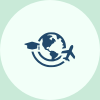
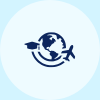
Edit 11 (Before Publishing)

diff --git a/index_complete.html b/index_complete.html
@@ -26,7 +26,7 @@
     <!-- WhatsApp Btn -->
 
     <a
-      href="https://wa.me/5541992188670?text=Hello!%20Tenho%20interesse%20nas%20aulas%20de%20ingl%C3%AAs%20da%20LinguaWiser...%20"
+      href="https://wa.me/5511999999999"
       class="whatsapp-button"
       target="_blank"
       aria-label="Chame no WhatsApp"
@@ -47,17 +47,27 @@
         <a href="#about">Sobre</a>
         <a href="#services">Serviços</a>
         <a href="#courses">Cursos</a>
-        
+        <a href="#intercambio">Intercâmbio</a>
+        <a href="#imersao">Imersão</a>
       </nav>
 
       <div class="icons">
-        
+        <div class="fas fa-user" id="account-btn"></div>
         <div class="fas fa-bars" id="menu-btn"></div>
       </div>
 
       <!-- Login Form -->
 
-      
+      <form action="" class="login-form">
+        <h3>Faça o seu login</h3>
+        <input type="email" placeholder="email" class="box" />
+        <input type="password" placeholder="senha" class="box" />
+        <div class="remember">
+          <input type="checkbox" name="" id="remember" />
+          <label for="remember-me">Esqueci a senha</label>
+        </div>
+        <a href="#" class="btn">Entrar</a>
+      </form>
     </header>
 
     <!-- Header ends here -->
@@ -74,7 +84,7 @@
           Google Meet, além de atividades presenciais, aulas in-company e cursos
           no exterior para uma experiência completa e personalizada.
         </p>
-        <a href="https://wa.me/5541992188670?text=Hello!%20Tenho%20interesse%20nas%20aulas%20de%20ingl%C3%AAs%20da%20LinguaWiser...%20" class="btn">Experimente grátis</a>
+        <a href="#" class="btn">Experimente grátis</a>
       </div>
     </section>
 
@@ -108,7 +118,7 @@
             seus alunos, a LinguaWiser acredita que aprender inglês deve ser
             uma experiência leve, prática e transformadora.
           </p>
-          <a href="https://wa.me/5541992188670?text=Hello!%20Tenho%20interesse%20nas%20aulas%20de%20ingl%C3%AAs%20da%20LinguaWiser...%20" class="btn">Experimente grátis</a>
+          <a href="#" class="btn">Experimente grátis</a>
         </div>
       </div>
     </section>
@@ -151,7 +161,15 @@
           </p>
         </div>
 
-        
+        <div class="box">
+          <img src="images/intercambio.png" alt="" />
+          <h3>Intercâmbio</h3>
+          <p>
+            Investir em um curso no exterior é transformador! Oferecemos
+            programas na Austrália e na Ilha de Malta para um aprendizado
+            intenso e imersivo.
+          </p>
+        </div>
 
         
       </div>
@@ -239,7 +257,7 @@
         <div class="details">
           <span><i class="far fa-dollar-sign"></i> Pague R$110,00 por hora</span>
         </div>
-        <a href="https://wa.me/5541992188670?text=Hello!%20Tenho%20interesse%20em%20sess%C3%B5es%20avulsas%20de%20ingl%C3%AAs%20online..." class="btn">Experimente grátis</a>
+        <a href="#" class="btn">Experimente grátis</a>
       </div>
     </div>
 
@@ -267,7 +285,7 @@
           <span><i class="far fa-dollar-sign"></i> Pague em 12x R$340,00</span>
         </div>
 
-        <a href="https://wa.me/5541992188670?text=Hello!%20Tenho%20interesse%20no%20plano%20starter%20de%20ingl%C3%AAs%20online..." class="btn">Experimente grátis</a>
+        <a href="#" class="btn">Experimente grátis</a>
       </div>
     </div>
 
@@ -295,7 +313,7 @@
           <span><i class="far fa-dollar-sign"></i> Pague em 12x R$609,00</span>
         </div>
 
-        <a href="https://wa.me/5541992188670?text=Hello!%20Tenho%20interesse%20no%20plano%20regular%20de%20ingl%C3%AAs%20online..." class="btn">Experimente grátis</a>
+        <a href="#" class="btn">Experimente grátis</a>
       </div>
     </div>
 
@@ -383,7 +401,7 @@
         <div class="details">
           <span><i class="far fa-dollar-sign"></i> Pague R$130,00 por hora</span>
         </div>
-        <a href="https://wa.me/5541992188670?text=Hello!%20Tenho%20interesse%20nas%20sess%C3%B5es%20avulsa%20de%20ingl%C3%AAs%20presencial..." class="btn">Experimente grátis</a>
+        <a href="#" class="btn">Experimente grátis</a>
       </div>
     </div>
 
@@ -411,7 +429,7 @@
           <span><i class="far fa-dollar-sign"></i> Pague em 12x R$340,00</span>
         </div>
 
-        <a href="https://wa.me/5541992188670?text=Hello!%20Tenho%20interesse%20no%20plano%20starter%20de%20ingl%C3%AAs%20presencial..." class="btn">Experimente grátis</a>
+        <a href="#" class="btn">Experimente grátis</a>
       </div>
     </div>
 
@@ -439,7 +457,7 @@
           <span><i class="far fa-dollar-sign"></i> Pague em 12x R$609,00</span>
         </div>
 
-        <a href="https://wa.me/5541992188670?text=Hello!%20Tenho%20interesse%20no%20plano%20regular%20de%20ingl%C3%AAs%20presencial..." class="btn">Experimente grátis</a>
+        <a href="#" class="btn">Experimente grátis</a>
       </div>
     </div>
 
@@ -447,20 +465,215 @@
 
     <!-- Pop Up Presencial Courses ends here -->
 
+    <!-- Cursos no exterior starts here -->
+
+    <section class="courses" id="intercambio">
+      <h1 class="heading">Intercâmbio</h1>
+      <div class="box-container">
+        <div class="box">
+          <div class="image shine">
+            <img src="images/malta.png" alt="" />
+          </div>
+          <div class="content">
+            <a class="btn" onclick="openPopup('popup1')">Detalhes</a>
+            <h3>Ilha de Malta</h3>
+            <p>Pague por mês</p>
+            <h5>R$150,00/hora</h5>
+            <div class="icons">
+              <span><i class="far fa-bookmark"></i> Monte seu pacote</span>
+              <span><i class="far fa-clock"></i> 4-12 horas mensais</span>
+            </div>
+          </div>
+        </div>
+
+        <div class="box">
+          <div class="image shine">
+            <img src="images/australia.png" alt="" />
+          </div>
+          <div class="content">
+            <a class="btn" onclick="openPopup('popup2')">Detalhes</a>
+            <h3>Austrália</h3>
+            <p>Pague em 12x R$394,00</p>
+            <h5>R$110,00/hora</h5>
+            <div class="icons">
+              <span><i class="far fa-bookmark"></i> 43 horas totais</span>
+              <span><i class="far fa-clock"></i> 1 hora por semana</span>
+            </div>
+          </div>
+        </div>
+
+        <div class="box">
+          <div class="image shine">
+            <img src="images/newzealand.png" alt="" />
+          </div>
+          <div class="content">
+            <a class="btn" onclick="openPopup('popup3')">Detalhes</a>
+            <h3>Nova Zelândia</h3>
+            <p>Pague em 12x R$716,00</p>
+            <h5>R$100,00/hora</h5>
+            <div class="icons">
+              <span><i class="far fa-bookmark"></i> 86 horas totais</span>
+              <span><i class="far fa-clock"></i> 2 horas por semana</span>
+            </div>
+          </div>
+        </div>
+
+        
+      </div>
+    </section>
+
+    <!-- Cursos no exterior ends here -->
+
+    <!-- Pop Up Cursos no Exterior starts here -->
+
+    <div class="popup" id="popup1">
+      <div class="popup-content">
+        <span class="close" onclick="closePopup('popup1')">&times;</span>
+        <h2>Ilha de Malta</h2>
+        <div class="icons">
+          <span><i class="far fa-bookmark"></i> Monte seu pacote</span>
+          <span><i class="far fa-clock"></i> 4-12 horas mensais</span>
+        </div>
+        <p>
+          Este curso oferece flexibilidade total. Ideal para quem tem agenda
+          variada e quer montar um plano personalizado.
+        </p>
+        <div class="details">
+          <span><i class="far fa-dollar-sign"></i> Pague R$130,00 por hora</span>
+        </div>
+        <a href="#" class="btn">Experimente grátis</a>
+      </div>
+    </div>
+
+    <div class="popup" id="popup2">
+      <div class="popup-content">
+        <span class="close" onclick="closePopup('popup2')">&times;</span>
+        <h2>Pacote Starter</h2>
+        <div class="icons">
+          <span><i class="far fa-bookmark"></i> 43 horas totais</span>
+          <span><i class="far fa-clock"></i> 1 hora por semana</span>
+        </div>
+        <p>
+          Plano pensado para quem busca manter o contato constante com o inglês
+          sem comprometer o orçamento. Com uma carga horária leve e a inclusão
+          de períodos de férias, é a opção ideal para quem quer aprender de
+          forma gradual, com flexibilidade e regularidade.
+        </p>
+        <div class="details">
+          <span
+            ><i class="far fa-snowflake"></i> 2 semanas de férias de
+            inverno</span
+          >
+          <span><i class="far fa-sun"></i> 4 semanas de férias de verão</span>
+          <span><i class="far fa-star"></i> Recesso de natal e ano novo</span>
+          <span><i class="far fa-dollar-sign"></i> Pague em 12x R$340,00</span>
+        </div>
+
+        <a href="#" class="btn">Experimente grátis</a>
+      </div>
+    </div>
+
+    <div class="popup" id="popup3">
+      <div class="popup-content">
+        <span class="close" onclick="closePopup('popup3')">&times;</span>
+        <h2>Pacote Regular</h2>
+        <div class="icons">
+          <span><i class="far fa-bookmark"></i> 86 horas totais</span>
+          <span><i class="far fa-clock"></i> 2 horas por semana</span>
+        </div>
+        <p>
+          São dois encontros semanais. Ideal para quem deseja avançar com mais
+          consistência, sem abrir mão da flexibilidade. O curso contempla pausas
+          planejadas ao longo do ano e proporciona um equilíbrio perfeito entre
+          ritmo de aprendizado e investimento acessível.
+        </p>
+        <div class="details">
+          <span
+            ><i class="far fa-snowflake"></i> 2 semanas de férias de
+            inverno</span
+          >
+          <span><i class="far fa-sun"></i> 4 semanas de férias de verão</span>
+          <span><i class="far fa-star"></i> Recesso de natal e ano novo</span>
+          <span><i class="far fa-dollar-sign"></i> Pague em 12x R$609,00</span>
+        </div>
+
+        <a href="#" class="btn">Experimente grátis</a>
+      </div>
+    </div>
+
+    <!-- Pop Up Cursos no Exterior ends here -->
+
+<!-- Imersão starts here -->
+
+<section class="courses" id="imersao">
+  <h1 class="heading">Imersão no Brasil</h1>
+  <div class="box-container">
+    <div class="box">
+      <div class="image shine">
+        <img src="images/malta.png" alt="" />
+      </div>
+      <div class="content">
+        <a class="btn" onclick="openPopup('popup1')">Detalhes</a>
+        <h3>Ilha de Malta</h3>
+        <p>Pague por mês</p>
+        <h5>R$150,00/hora</h5>
+        <div class="icons">
+          <span><i class="far fa-bookmark"></i> Monte seu pacote</span>
+          <span><i class="far fa-clock"></i> 4-12 horas mensais</span>
+        </div>
+      </div>
+    </div>
+
+    <div class="box">
+      <div class="image shine">
+        <img src="images/australia.png" alt="" />
+      </div>
+      <div class="content">
+        <a class="btn" onclick="openPopup('popup2')">Detalhes</a>
+        <h3>Austrália</h3>
+        <p>Pague em 12x R$394,00</p>
+        <h5>R$110,00/hora</h5>
+        <div class="icons">
+          <span><i class="far fa-bookmark"></i> 43 horas totais</span>
+          <span><i class="far fa-clock"></i> 1 hora por semana</span>
+        </div>
+      </div>
+    </div>
+
+    <div class="box">
+      <div class="image shine">
+        <img src="images/newzealand.png" alt="" />
+      </div>
+      <div class="content">
+        <a class="btn" onclick="openPopup('popup3')">Detalhes</a>
+        <h3>Nova Zelândia</h3>
+        <p>Pague em 12x R$716,00</p>
+        <h5>R$100,00/hora</h5>
+        <div class="icons">
+          <span><i class="far fa-bookmark"></i> 86 horas totais</span>
+          <span><i class="far fa-clock"></i> 2 horas por semana</span>
+        </div>
+      </div>
+    </div>
+
     
+  </div>
+</section>
 
-
+<!-- Imersão ends here -->
 
     <section class="footer">
       <div class="box-container">
         <div class="box">
           <h3>Entre em contato</h3>
           <p>
-            contato@linguawiser.com
+            Lorem ipsum dolor, sit amet consectetur adipisicing elit.
+            Laboriosam, consequatur.
           </p>
           <div class="share">
             <a href="#" class="fab fa-youtube"></a>
-            <a href="https://www.instagram.com/lingua.wiser" class="fab fa-instagram"></a>
+            <a href="#" class="fab fa-instagram"></a>
+            <a href="#" class="fab fa-linkedin"></a>
           </div>
         </div>
         

diff --git a/css/style.css b/css/style.css
@@ -1,9 +1,9 @@
 @import url('https://fonts.googleapis.com/css2?family=DM+Sans:ital,opsz,wght@0,9..40,100..1000;1,9..40,100..1000&family=Nunito:ital,wght@0,200..1000;1,200..1000&family=Poppins:ital,wght@0,100;0,200;0,300;0,400;0,500;0,600;0,700;0,800;0,900;1,100;1,200;1,300;1,400;1,500;1,600;1,700;1,800;1,900&display=swap');
 
 :root {
-    --main-color1: #008037;
+    --main-color1: #0d265d;
     --main-color2: #21496b;
-    --light-green: #c9ead8;
+    --light-green: #d3f4ff;
     --light-blue: #c6ddf1;
     --black: #444;
     --white: #fff;
